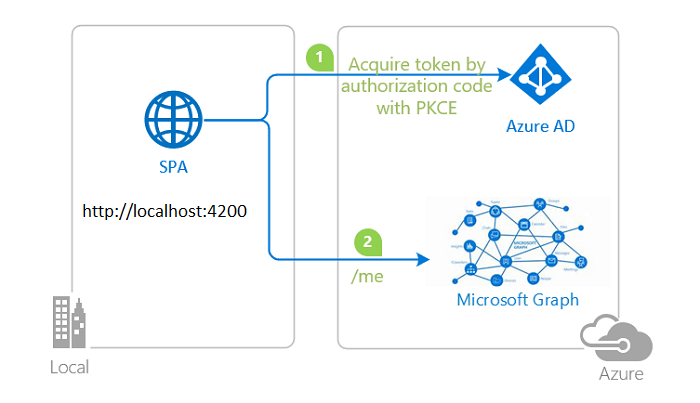
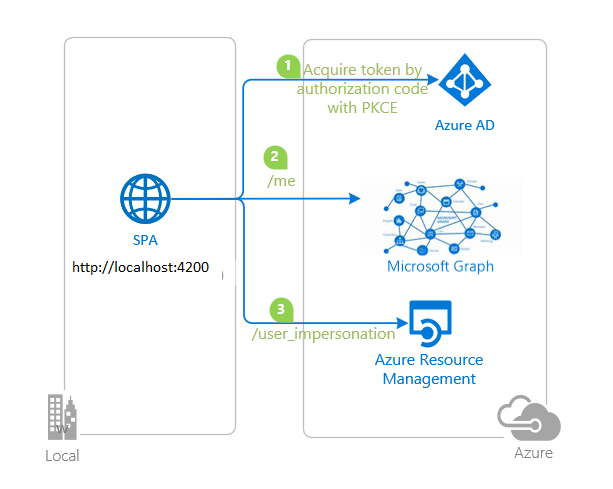
fix c2s1 tenant endpoint

Changed region(s): [[0.062, 0.0596, 0.9299, 0.9529], [0.7129, 0.2978, 0.8369, 0.3275]]

diff --git a/2-Authorization-I/1-call-graph/SPA/src/app/tenant/tenant.component.ts b/2-Authorization-I/1-call-graph/SPA/src/app/tenant/tenant.component.ts
@@ -21,15 +21,14 @@ export class TenantComponent implements OnInit {
   }
 
   getTenant() {
-    this.http.get(protectedResources.armTenants.endpoint)
+    this.http.get('https://management.azure.com/tenants?api-version=2020-01-01')
       .subscribe((tenant: any) => {
-        console.log(tenant);
-        // this.dataSource = [
-        //   {id: 1, claim: "Name", value: tenants ? tenants['givenName'] : null},
-        //   {id: 2, claim: "Surname", value: profile ? tenants['surname'] : null},
-        //   {id: 3, claim: "User Preferred Name (UPN)", value: profile ? profile['userPrincipalName'] : null},
-        //   {id: 4, claim: "ID", value: profile ? profile['id']: null}
-        // ];
+        this.dataSource = [
+          {id: 1, claim: "Name", value: tenant ? tenant.value[0]['displayName'] : null},
+          {id: 2, claim: "Name", value: tenant ? tenant.value[0]['defaultDomain'] : null},
+          {id: 3, claim: "Surname", value: tenant ? tenant.value[0]['tenantId'] : null},
+          {id: 3, claim: "Surname", value: tenant ? tenant.value[0]['tenantType'] : null},
+        ];
       });
   }
 

diff --git a/2-Authorization-I/1-call-graph/SPA/src/app/app.module.ts b/2-Authorization-I/1-call-graph/SPA/src/app/app.module.ts
@@ -38,7 +38,7 @@ export function MSALInterceptorConfigFactory(): MsalInterceptorConfiguration {
   const protectedResourceMap = new Map<string, Array<string>>();
 
   protectedResourceMap.set(protectedResources.graphMe.endpoint, protectedResources.graphMe.scopes);
-  protectedResourceMap.set(protectedResources.armTenants.endpoint, protectedResources.armTenants.scopes);
+  protectedResourceMap.set(protectedResources.armTenants.endpoint + '*', protectedResources.armTenants.scopes);
 
   return {
     interactionType: InteractionType.Redirect,

diff --git a/2-Authorization-I/1-call-graph/SPA/src/app/auth-config.ts b/2-Authorization-I/1-call-graph/SPA/src/app/auth-config.ts
@@ -45,7 +45,7 @@ export const protectedResources = {
         scopes: ["User.Read"],
     },
     armTenants: {
-        endpoint: "https://management.azure.com/tenants?api-version=2020-01-01",
+        endpoint: "https://management.azure.com/tenants",
         scopes: ["https://management.azure.com/user_impersonation"],
     }
 }

diff --git a/1-Authentication/1-sign-in/SPA/src/app/guarded/guarded.component.html b/1-Authentication/1-sign-in/SPA/src/app/guarded/guarded.component.html
@@ -1,1 +1,1 @@
-<p>This component is guarded. You must be signed-in to view it.</p>
+<p>This component is guarded. You can see this because you're signed-in. </p>

diff --git a/1-Authentication/2-sign-in-b2c/SPA/src/app/guarded/guarded.component.html b/1-Authentication/2-sign-in-b2c/SPA/src/app/guarded/guarded.component.html
@@ -1,1 +1,1 @@
-<p>This component is guarded. You must be signed-in to view it.</p>
+<p>This component is guarded. You can see this because you're signed-in. </p>

diff --git a/README.md b/README.md
@@ -55,31 +55,31 @@ Alternatively, choose below the sample you want to review.
 
 |               |               |
 |---------------|---------------|
-| <img src="./1-Authentication/1-sign-in/ReadmeFiles/topology.png" width="200"> | [**Sign-in with Azure AD**](./1-Authentication/1-sign-in) </br> Sign-in your users with the **Azure AD** and learn to work with **ID Tokens**. Learn how **single sign-on (SSO)** works. Learn to secure your apps to operate in **national clouds**. |
-| <img src="./1-Authentication/2-sign-in-b2c/ReadmeFiles/topology.png" width="200"> | [**Sign-in with Azure AD B2C**](./1-Authentication/2-sign-in-b2c) </br> Sign-in your customers with **Azure AD B2C**. Learn to integrate with **external social identity providers**. Learn how to use **user-flows** and **custom policies**. |
+| <img src="./1-Authentication/1-sign-in/ReadmeFiles/topology.png" width="200"> | [**Sign-in with Azure AD**](./1-Authentication/1-sign-in/README.md) </br> Sign-in your users with the **Azure AD** and learn to work with **ID Tokens**. Learn how **single sign-on (SSO)** works. Learn to secure your apps to operate in **national clouds**. |
+| <img src="./1-Authentication/2-sign-in-b2c/ReadmeFiles/topology.png" width="200"> | [**Sign-in with Azure AD B2C**](./1-Authentication/2-sign-in-b2c/README.md) </br> Sign-in your customers with **Azure AD B2C**. Learn to integrate with **external social identity providers**. Learn how to use **user-flows** and **custom policies**. |
 
 ### Chapter 2: Sign-in a user and get an Access Token for Microsoft Graph
 
 |                |               |
 |----------------|---------------|
-| <img src="./2-Authorization-I/1-call-graph/ReadmeFiles/topology.png" width="200"> | [**Get an Access Token from Azure AD and call Microsoft Graph**](./2-Authorization-I/1-call-graph) </br> Authenticate your users and acquire an **Access Token** for Microsoft Graph and then call the **Microsoft Graph API**. |
+| <img src="./2-Authorization-I/1-call-graph/ReadmeFiles/topology.png" width="200"> | [**Get an Access Token from Azure AD and call Microsoft Graph**](./2-Authorization-I/1-call-graph/README.md) </br> Authenticate your users and acquire an **Access Token** for Microsoft Graph and then call the **Microsoft Graph API**. |
 
 ### Chapter 3: Protect an API and call the API from your client app
 
 |                 |               |
 |-----------------|---------------|
-| <img src="./3-Authorization-II/1-call-api/ReadmeFiles/topology.png" width="200"> | [**Protect and call a web API on Azure AD**](./3-Authorization-II/1-call-api) </br> Protect your web API with the **Azure AD**. Use a client application to sign-in a user, acquire an **Access Token** for your web API and call your protected Web API. |
-| <img src="./3-Authorization-II/2-call-api-b2c/ReadmeFiles/topology_b2c_callapi.png" width="200"> | [**Protect and call a web API on Azure AD B2C**](./3-Authorization-II/2-call-api-b2c) </br> Protect your web API with **Azure AD B2C**. Use a client application to sign-in a user, acquire an **Access Token** for your web API and call your protected web API. |
+| <img src="./3-Authorization-II/1-call-api/ReadmeFiles/topology.png" width="200"> | [**Protect and call a web API on Azure AD**](./3-Authorization-II/1-call-api/README.md) </br> Protect your web API with the **Azure AD**. Use a client application to sign-in a user, acquire an **Access Token** for your web API and call your protected Web API. |
+| <img src="./3-Authorization-II/2-call-api-b2c/ReadmeFiles/topology_b2c_callapi.png" width="200"> | [**Protect and call a web API on Azure AD B2C**](./3-Authorization-II/2-call-api-b2c/README.md) </br> Protect your web API with **Azure AD B2C**. Use a client application to sign-in a user, acquire an **Access Token** for your web API and call your protected web API. |
 
 ### Chapter 4: Deploy your applications to Azure
 
 |                 |               |
 |-----------------|---------------|
-| <img src="./5-Deployment/ReadmeFiles/topology.png" width="200"> | [**Deploy to Azure Storage and App Service**](./5-Deployment) </br> Prepare your app for deployment to various **Azure** services. Learn how to package and upload files, configure authentication parameters and use **Azure** services for managing your operations. |
+| <img src="./4-Deployment/1-deploy-storage/ReadmeFiles/topology.png" width="200"> | [**Deploy to Azure Storage and App Service**](./4-Deployment/1-deploy-storage/README.md) </br> Prepare your app for deployment to various **Azure** services. Learn how to package and upload files, configure authentication parameters and use **Azure** services for managing your operations. |
 
 ## We'd love your feedback!
 
-Were we successful in addressing your learning objective? Consider taking a moment to [share your experience with us](Enter_Survey_Form_Link).
+Were we successful in addressing your learning objective? Consider taking a moment to [share your experience with us](https://forms.office.com/Pages/ResponsePage.aspx?id=v4j5cvGGr0GRqy180BHbR73pcsbpbxNJuZCMKN0lURpUOU5PNlM4MzRRV0lETkk2ODBPT0NBTEY5MCQlQCN0PWcu).
 
 ## More information
 

diff --git a/1-Authentication/1-sign-in/README.md b/1-Authentication/1-sign-in/README.md
@@ -143,7 +143,7 @@ Open the project in your IDE (like Visual Studio or Visual Studio Code) to confi
 
 ## We'd love your feedback!
 
-Were we successful in addressing your learning objective? Consider taking a moment to [share your experience with us](Enter_Survey_Form_Link).
+Were we successful in addressing your learning objective? Consider taking a moment to [share your experience with us](https://forms.office.com/Pages/ResponsePage.aspx?id=v4j5cvGGr0GRqy180BHbR73pcsbpbxNJuZCMKN0lURpUOU5PNlM4MzRRV0lETkk2ODBPT0NBTEY5MCQlQCN0PWcu).
 
 ## About the code
 

diff --git a/2-Authorization-I/1-call-graph/README.md b/2-Authorization-I/1-call-graph/README.md
@@ -156,7 +156,7 @@ Open the project in your IDE (like Visual Studio or Visual Studio Code) to confi
 
 ## We'd love your feedback!
 
-Were we successful in addressing your learning objective? Consider taking a moment to [share your experience with us](Enter_Survey_Form_Link).
+Were we successful in addressing your learning objective? Consider taking a moment to [share your experience with us](https://forms.office.com/Pages/ResponsePage.aspx?id=v4j5cvGGr0GRqy180BHbR73pcsbpbxNJuZCMKN0lURpUOU5PNlM4MzRRV0lETkk2ODBPT0NBTEY5MCQlQCN0PWcu).
 
 ## About the code
 

diff --git a/1-Authentication/2-sign-in-b2c/README.md b/1-Authentication/2-sign-in-b2c/README.md
@@ -128,7 +128,7 @@ To setup your B2C user-flows, do the following:
 
 ## We'd love your feedback!
 
-Were we successful in addressing your learning objective? Consider taking a moment to [share your experience with us](Enter_Survey_Form_Link).
+Were we successful in addressing your learning objective? Consider taking a moment to [share your experience with us](https://forms.office.com/Pages/ResponsePage.aspx?id=v4j5cvGGr0GRqy180BHbR73pcsbpbxNJuZCMKN0lURpUOU5PNlM4MzRRV0lETkk2ODBPT0NBTEY5MCQlQCN0PWcu).
 
 ## About the code
 
